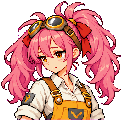
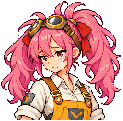
feat(starlantern): publish face wave 2 and give Lorne and Rin a face on every heavy line
The user approved wave 2 as recommended (2026-10-24, 「繼續」). Published through the registry
(sl_art approve / publish): Lorne serious and distant, serious and guarded for both Rin looks,
and the redos of Scarlet vow, Noel sad and Bobby sad (a2 replaces a1 at the same runtime path;
a1 stays in work/ and raw as evidence). Selene keeps her wave-1 wistful; the a2 redo is recorded
as rejected and stays outside runtime paths. The manifest goes from 428 to 434 urls.

PUBLISHED_FACES lists the six. Rin's look follows the rule her normal already uses (artIdOf: the
cracked bell before her oath, the oath set after), so the two sets never mix. In a heavy scene
resolve and surprised map to serious, guarded to serious, averted to sad, as before; with the art
there, Lorne no longer hides. The comment that called his hidden portrait intentional is gone.

Lorne's and Rin's 107 heavy lines, each counted in its own era: before, 18 hidden, 18 more on
Lorne's sad for distant, 20 on Rin's calm normal; now all 107 show their own face (95) or a near
one (12), 0 hidden. Tests cover the mapping, the era switch, the no-art fallbacks and that every
published face exists under public/. Engine is untouched.

diff --git a/src/scripts/games/starlantern/ui2/storyFaces.test.ts b/src/scripts/games/starlantern/ui2/storyFaces.test.ts
@@ -52,12 +52,30 @@ describe('companion grave faces', () => {
     expect(face('liz', 'hushed', without(art.portrait('liz', 'hushed')))).toBe(art.portrait('liz', 'normal'));
   });
 
-  it('Lorne and Rin are unchanged: a grave face of their own, else their calm normal', () => {
-    expect(face('hero', 'serious')).toBe(art.portrait('hero', 'normal'));
-    expect(face('hero', 'distant')).toBe(art.portrait('hero', 'normal'));
+  // Wave 2 (art-factory/starlantern/runs/2026-10-24-faces-wave2; user approval 2026-10-24 「繼續」): Lorne's serious and
+  // distant, and serious and guarded for both of Rin's looks.
+  it('Lorne and Rin say their grave lines with their own wave-2 faces', () => {
+    expect(face('hero', 'serious')).toBe(art.portrait('hero', 'serious'));
+    expect(face('hero', 'distant')).toBe(art.portrait('hero', 'distant'));
     expect(face('hero', 'sad')).toBe(art.portrait('hero', 'sad'));
-    expect(face('rin', 'serious')).toBe(art.portrait('rin', 'normal'));
+    expect(face('rin', 'serious')).toBe(art.portrait('rin', 'serious'));
+    expect(face('rin', 'guarded')).toBe(art.portrait('rin', 'guarded'));
     expect(face('rin', 'sad')).toBe(art.portrait('rin', 'sad'));
+  });
+
+  it("Rin's era picks the set by the same rule as her normal: the cracked bell before her oath, the oath set after", () => {
+    const s = state();
+    for (const m of ['normal', 'serious', 'guarded'] as StoryMood[]) {
+      expect(speakerOf('rin', s, ART, m).face, `before ${m}`).toBe(art.portrait('rin', m));
+      expect(speakerOf('rin', s, ART, m, true).face, `before, heavy ${m}`).toBe(art.portrait('rin', m));
+    }
+    s.party.roster.rin.oath = true;
+    for (const m of ['normal', 'serious', 'guarded'] as StoryMood[]) {
+      expect(speakerOf('rin', s, ART, m).face, `after ${m}`).toBe(art.portrait('rin-oath', m));
+      expect(speakerOf('rin', s, ART, m, true).face, `after, heavy ${m}`).toBe(art.portrait('rin-oath', m));
+    }
+    // the two looks never mix: with the oath serious face missing, the oath Rin falls to her own calm normal, not the cracked bell's serious
+    expect(speakerOf('rin', s, without(art.portrait('rin-oath', 'serious')), 'serious', true).face).toBe(art.portrait('rin-oath', 'normal'));
   });
 
   it('every heavy companion line in the script now shows a face (106 lines, 0 hidden)', () => {
@@ -82,14 +100,25 @@ describe('companion grave faces', () => {
     for (const l of hushed) expect(speakerOf('liz', s, ART, 'hushed').face, l.text).toBe(art.portrait('liz', 'hushed'));
   });
 
-  it('every published face is a file under public/, and wave 1 is the 18 faces', () => {
+  it('every published face is a file under public/; wave 1 is the 18 companion faces, wave 2 the 6 of Lorne and Rin', () => {
     const companions = CHARACTER_IDS.filter((c) => NORMAL_SMILES.has(c));
     expect(companions.reduce((n, c) => n + (PUBLISHED_FACES[c]?.length ?? 0), 0)).toBe(18);
+    expect(PUBLISHED_FACES.hero).toEqual(['smile', 'sad', 'serious', 'distant']);
+    expect(PUBLISHED_FACES.rin).toEqual(['smile', 'sad', 'serious', 'guarded']);
+    expect(PUBLISHED_FACES['rin-oath']).toEqual(PUBLISHED_FACES.rin);
     for (const [id, faces] of Object.entries(PUBLISHED_FACES)) {
       for (const m of faces) expect(existsSync(`public${art.portrait(id, m)}`), `${id} ${m}`).toBe(true);
     }
   });
 });
+
+// Lorne's and Rin's lines in heavy scenes by what they show, before and after wave 2 (filled in from the count below).
+// Before: 18 of Lorne's hidden (serious, resolve, surprised), 18 more on his sad face for distant, and 20 of Rin's on her calm normal.
+const BEFORE_WAVE2: Record<string, number> = {
+  'hero exact': 30, 'hero near': 18, 'hero hidden': 18, 'rin exact': 16, 'rin near': 5, 'rin calm-normal': 20,
+};
+// After: all 107 show their own face or a near one; none hidden, none on Rin's calm normal.
+const AFTER_WAVE2: Record<string, number> = { 'hero exact': 61, 'hero near': 5, 'rin exact': 34, 'rin near': 7 };
 
 // Story staging S3 (2026-10-23): in a heavy scene a mood without art takes its nearest face, never the smiling normal.
 describe('faces in a heavy scene (staging S3)', () => {
@@ -128,16 +157,54 @@ describe('faces in a heavy scene (staging S3)', () => {
     expect(face('chizuru', 'bewildered')).toBe(art.portrait('chizuru', 'normal'));
   });
 
-  it("Lorne's soft-smiling normal is hidden for a heavy mood without a near face; Rin keeps her calm normal", () => {
-    expect(heavyFace('hero', 'serious')).toBeUndefined();
-    expect(heavyFace('hero', 'surprised')).toBeUndefined();
-    expect(heavyFace('hero', 'resolve')).toBeUndefined();
-    expect(heavyFace('hero', 'distant')).toBe(art.portrait('hero', 'sad'));   // distant → wistful → sad
+  it('Lorne and Rin map a heavy mood to their nearest wave-2 face instead of hiding', () => {
+    expect(heavyFace('hero', 'serious')).toBe(art.portrait('hero', 'serious'));
+    expect(heavyFace('hero', 'distant')).toBe(art.portrait('hero', 'distant'));
+    expect(heavyFace('hero', 'resolve')).toBe(art.portrait('hero', 'serious'));     // resolve → serious
+    expect(heavyFace('hero', 'surprised')).toBe(art.portrait('hero', 'serious'));   // surprised → serious
     expect(heavyFace('hero', 'sad')).toBe(art.portrait('hero', 'sad'));
     expect(heavyFace('hero', 'smile')).toBe(art.portrait('hero', 'smile'));
-    expect(heavyFace('rin', 'guarded')).toBe(art.portrait('rin', 'normal'));
-    expect(heavyFace('rin', 'serious')).toBe(art.portrait('rin', 'normal'));
-    expect(heavyFace('rin', 'averted')).toBe(art.portrait('rin', 'sad'));      // averted → sad
+    expect(heavyFace('rin', 'serious')).toBe(art.portrait('rin', 'serious'));
+    expect(heavyFace('rin', 'guarded')).toBe(art.portrait('rin', 'guarded'));
+    expect(heavyFace('rin', 'surprised')).toBe(art.portrait('rin', 'serious'));     // surprised → serious
+    expect(heavyFace('rin', 'averted')).toBe(art.portrait('rin', 'sad'));           // averted → sad (eyes down, not wary)
+  });
+
+  it("without the wave-2 art Lorne's soft-smiling normal still never stands in: distant → sad, else no portrait", () => {
+    const old = without(...(['serious', 'distant'] as StoryMood[]).map((m) => art.portrait('hero', m)));
+    expect(heavyFace('hero', 'distant', old)).toBe(art.portrait('hero', 'sad'));    // distant → wistful → sad
+    expect(heavyFace('hero', 'serious', old)).toBeUndefined();
+    expect(heavyFace('hero', 'resolve', old)).toBeUndefined();
+    const oldRin = without(...(['serious', 'guarded'] as StoryMood[]).map((m) => art.portrait('rin', m)));
+    expect(heavyFace('rin', 'guarded', oldRin)).toBe(art.portrait('rin', 'normal'));   // Rin's calm normal is a stand-in
+  });
+
+  it("Lorne's and Rin's heavy lines, each in its own era: every one shows a face now (wave 2)", () => {
+    const tally = (index: ArtIndex) => {
+      const t: Record<string, number> = {};
+      const hidden: string[] = [];
+      for (const id of SCENE_IDS) {
+        if (!heavyScene(id)) continue;
+        for (const l of STORY.scenes[id].lines) {
+          if (l.who !== 'hero' && l.who !== 'rin') continue;
+          const s = state();
+          if (l.if?.oath === true) s.party.roster.rin.oath = true;   // a line gated on her oath plays in the oath era
+          const mood = l.mood ?? 'normal';
+          const artId = l.who === 'rin' && s.party.roster.rin.oath ? 'rin-oath' : l.who;
+          const shown = speakerOf(l.who, s, index, mood, true).face;
+          const k = !shown ? 'hidden' : shown === art.portrait(artId, mood) ? 'exact' : shown === art.portrait(artId, 'normal') ? 'calm-normal' : 'near';
+          t[`${l.who} ${k}`] = (t[`${l.who} ${k}`] ?? 0) + 1;
+          if (!shown) hidden.push(`${id} ${l.who} ${mood} ${l.text}`);
+        }
+      }
+      return { t, hidden };
+    };
+    const before = tally(without(...(['serious', 'distant'] as StoryMood[]).map((m) => art.portrait('hero', m)),
+      ...['rin', 'rin-oath'].flatMap((a) => (['serious', 'guarded'] as StoryMood[]).map((m) => art.portrait(a, m)))));
+    const now = tally(ART);
+    expect(before.t).toEqual(BEFORE_WAVE2);
+    expect(now.t).toEqual(AFTER_WAVE2);
+    expect(now.hidden).toEqual([]);
   });
 
   it('the whole script: no non-happy line of a heavy scene shows a smiling normal', () => {
@@ -170,11 +237,15 @@ describe('faces in a heavy scene (staging S3)', () => {
       // story L Tasks 14-15: the finale's Selene wistful and Scarlet vow (exact +2, glad smiles -2), Noel's whole-chain blush gone
       // (a glad smile -1, her pout hidden +1), Bobby's third reading (near +1); hero-alone's Scarlet two lines fewer (exact -2),
       // rin-confess's Sylvie one fewer (near -1); the cold read: Scarlet's silent fallback is narration (exact -1)
-      'heavy exact': 108, 'heavy near': 36, 'heavy calm-normal': 20, 'heavy hidden': 23, 'heavy smiling-normal': 22,
+      // face wave 2 (2026-10-24; this tally reads every line before Rin's oath): Lorne's and Rin's heavy lines take their own
+      // face (exact +49): from a near face (-11: Lorne's distant had borrowed his sad), Rin's calm normal (-20) and no
+      // portrait (-18, Lorne's serious, resolve and surprised). The 5 still hidden are companions' (Safira, Noel: no serious face).
+      'heavy exact': 157, 'heavy near': 25, 'heavy hidden': 5, 'heavy smiling-normal': 22,
       // story L Tasks 12-13: light exact -5 (Bobby's and Sylvie's lines in chat:sylvie:1, Sylvie's bed line in :2, two of
       // Chizuru's bell lines), Lorne's smiling normal -1 (his two stand-ins gone, the tofu line moved to chat:sylvie:1)
       // story L Task 15: chat:selene:2 reads one way, two of Selene's lines fewer
-      'light exact': 86, 'light calm-normal': 6, 'light smiling-normal': 99,
+      // face wave 2: Rin's light guarded and serious lines (5) and Lorne's one light serious line now show their own face
+      'light exact': 92, 'light calm-normal': 1, 'light smiling-normal': 98,
     });
   });
 });

diff --git a/src/scripts/games/starlantern/ui2/story.test.ts b/src/scripts/games/starlantern/ui2/story.test.ts
@@ -420,12 +420,18 @@ describe('speakerOf', () => {
 
   it('only a companion whose normal portrait smiles loses it on a grave line; Lorne and Rin keep theirs (re-review of the final fixes)', () => {
     const { game } = mk();
-    // Rin's and Lorne's normal faces do not smile: a serious line keeps the portrait (「要出去，得先過我這裡」).
-    expect(speakerOf('rin', game.state, ART, 'serious').face).toBe(art.portrait('rin', 'normal'));
-    expect(speakerOf('hero', game.state, ART, 'serious').face).toBe(art.portrait('hero', 'normal'));
-    expect(speakerOf('hero', game.state, ART, 'distant').face).toBe(art.portrait('hero', 'normal'));
+    // Rin's and Lorne's normal faces do not smile: a serious line keeps the portrait (「要出去，得先過我這裡」). Face wave 2
+    // (2026-10-24) gave them their own grave faces; without those, a light line falls back to the normal as before.
+    const noWave2: ArtIndex = { has: (u) => ART.has(u) && !/(hero|rin|rin-oath)-portrait-(serious|distant|guarded)\.png$/.test(u) };
+    expect(speakerOf('rin', game.state, noWave2, 'serious').face).toBe(art.portrait('rin', 'normal'));
+    expect(speakerOf('hero', game.state, noWave2, 'serious').face).toBe(art.portrait('hero', 'normal'));
+    expect(speakerOf('hero', game.state, noWave2, 'distant').face).toBe(art.portrait('hero', 'normal'));
+    expect(speakerOf('rin', game.state, ART, 'serious').face).toBe(art.portrait('rin', 'serious'));
+    expect(speakerOf('hero', game.state, ART, 'serious').face).toBe(art.portrait('hero', 'serious'));
+    expect(speakerOf('hero', game.state, ART, 'distant').face).toBe(art.portrait('hero', 'distant'));
     game.state.party.roster.rin.oath = true;
-    expect(speakerOf('rin', game.state, ART, 'serious').face).toBe(art.portrait('rin-oath', 'normal'));
+    expect(speakerOf('rin', game.state, noWave2, 'serious').face).toBe(art.portrait('rin-oath', 'normal'));
+    expect(speakerOf('rin', game.state, ART, 'serious').face).toBe(art.portrait('rin-oath', 'serious'));
     // A companion's heavy faces count as grave too: Chizuru's solemn, Scarlet's vow and shaken, Selene's wistful. Without
     // their art (and their fallbacks') no portrait; wave 1 (2026-10-23) published them, so they show (storyFaces.test.ts).
     const bare: ArtIndex = { has: (u) => ART.has(u) && !/-portrait-(serious|sad|solemn|vow|shaken|wistful)\.png$/.test(u) };

diff --git a/src/scripts/games/starlantern/render/artPaths.ts b/src/scripts/games/starlantern/render/artPaths.ts
@@ -48,7 +48,9 @@ export const MOODS_OF: Record<string, StoryMood[]> = Object.fromEntries(
 );
 /** Story faces on disk, by art id. An art batch adds its moods here in the same commit as its registry entries. */
 export const PUBLISHED_FACES: Record<string, StoryMood[]> = {
-  hero: ['smile', 'sad'], rin: ['smile', 'sad'], 'rin-oath': ['smile', 'sad'],
+  // Wave 2 (art-factory/starlantern/runs/2026-10-24-faces-wave2; user approval 2026-10-24): Lorne's and both Rin looks'
+  // grave faces. Each Rin look has its own (cracked bell / flattened bell); `artIdOf` picks the look, as for her normal.
+  hero: ['smile', 'sad', 'serious', 'distant'], rin: ['smile', 'sad', 'serious', 'guarded'], 'rin-oath': ['smile', 'sad', 'serious', 'guarded'],
   // Companion faces, wave 1 (art-factory/starlantern/runs/2026-10-23-faces-wave1; user approval 2026-10-23): the grave faces
   // the script uses, plus Liz's hushed.
   scarlet: ['serious', 'sad', 'vow', 'shaken'], chizuru: ['serious', 'sad', 'solemn'], sylvie: ['serious', 'sad'],
@@ -58,7 +60,8 @@ export const PUBLISHED_FACES: Record<string, StoryMood[]> = {
  * Art ids whose `normal` portrait smiles (story depth final review, checked by eye on the published art): every companion.
  * Lorne's and Rin's normal faces are calm, so they are not here. A grave line of theirs shows its own face or a mapped near
  * one (ui2/story.ts `GRAVE_FALLBACK`), never the smiling normal; with neither published it shows no portrait. In a heavy
- * scene (staging S3) Lorne's normal, whose calm carries a soft smile, is no stand-in either: see ui2/story.ts `CALM_NORMALS`.
+ * scene (staging S3) Lorne's normal, whose calm carries a soft smile, is no stand-in either; since wave 2 his grave moods
+ * have faces of their own (ui2/story.ts `CALM_NORMALS`).
  */
 export const NORMAL_SMILES: ReadonlySet<string> = new Set(['selene', 'chizuru', 'safira', 'sylvie', 'noel', 'bobby', 'liz', 'scarlet']);
 

diff --git a/src/scripts/games/starlantern/ui2/story.ts b/src/scripts/games/starlantern/ui2/story.ts
@@ -59,9 +59,10 @@ export const NEAR_FACE: Partial<Record<StoryMood, StoryMood[]>> = {
 };
 /**
  * Art ids whose normal is calm enough to stand in for any heavy face (staging S3, by eye on the published art): Rin's,
- * both looks, a level gaze. Lorne's normal carries a soft smile, so in a heavy scene it is no stand-in: like a
- * companion's, his line then shows its name plate alone. That is intentional (staging review 5): 19 heavy lines of his show no
- * portrait rather than a smile. The real fix is art, a second face wave for Lorne and Rin (serious, distant, guarded).
+ * both looks, a level gaze. Lorne's normal carries a soft smile, so it is no stand-in. Since face wave 2 (2026-10-24) both
+ * have heavy faces of their own: Lorne serious and distant, each Rin look serious and guarded; a heavy mood takes its own
+ * face or its `NEAR_FACE` (resolve and surprised → serious, guarded → serious, averted → sad), so every heavy line of
+ * theirs in the script shows a face (ui2/storyFaces.test.ts).
  */
 export const CALM_NORMALS: ReadonlySet<string> = new Set(['rin', 'rin-oath']);
 /**

diff --git a/src/scripts/games/starlantern/render/artPaths.test.ts b/src/scripts/games/starlantern/render/artPaths.test.ts
@@ -26,8 +26,9 @@ describe('artPaths', () => {
     //   + 15 silhouettes - 14 retired old base icons = 282 + 128 = 410
     // - plan 8c's 三連刃 icon (its skill replaced by 順手牽羊; the file stays until step ⑨) = 409
     // + the companion talking faces, wave 1 (18; user approval 2026-10-23) = 427
-    expect(urls).toHaveLength(427);
-    expect(new Set(urls).size).toBe(427);
+    // + Lorne's and both Rin looks' grave faces, wave 2 (6; user approval 2026-10-24; the three redos replace files) = 433
+    expect(urls).toHaveLength(433);
+    expect(new Set(urls).size).toBe(433);
     for (const id of RETIRED_ICON_IDS) expect(urls).not.toContain(art.icon(id));
     expect(urls).toContain(art.fxAnim('thunder'));
     for (const id of ['blaze-core', 'frost-heart', 'storm-stone', 'mire-gland', 'shade-crystal', 'iron-shard']) expect(urls).toContain(art.icon(id));

diff --git a/tests/e2e/starlantern.spec.ts b/tests/e2e/starlantern.spec.ts
@@ -2347,7 +2347,7 @@ test.describe('starlantern', () => {
     const answered = assetResponses(page);
     const w = await setup(page, 7);
     const manifest = await page.evaluate(async () => (await (await fetch('/assets/games/starlantern/manifest.json')).json()).urls as string[]);
-    expect(manifest.length).toBe(428);   // 410 + the companion talking faces, wave 1 (18; user approval 2026-10-23)
+    expect(manifest.length).toBe(434);   // 410 + the companion talking faces, wave 1 (18; user approval 2026-10-23) + wave 2 (6, 2026-10-24)
     // Every file the manifest lists answers 200.
     for (const u of manifest) expect((await page.request.get(u)).status(), u).toBe(200);
     // Walk the screens that show the new art (equipment, shop, forge, portal codex) with every sample piece in the bag.
